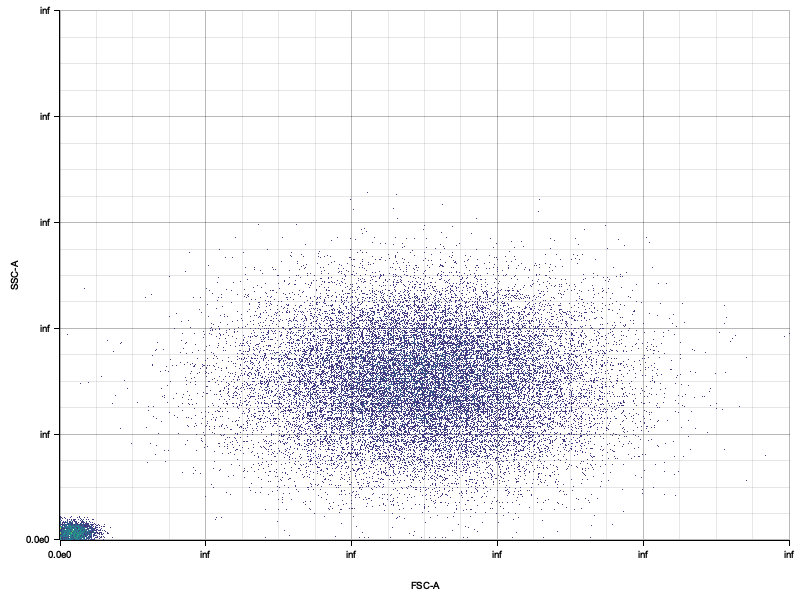
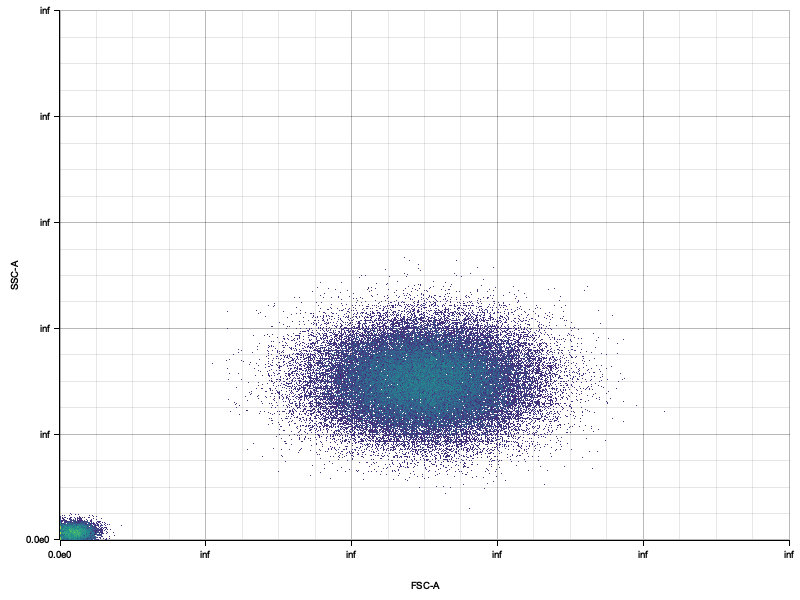
feat(gates): triple event counts and adjust distributions
- Triple total events: 20k -> 60k (most scenarios), 30k -> 90k (with_debris)
- Reduce FSC mean by 35% for single-population and with_doublets (50000 -> 32500)
- Narrow all distributions by ~40% for more concentration (except debris)
- Debris population keeps original wider distribution
- All plots regenerated with new parameters

Changed region(s): [[0.2812, 0.45, 0.7812, 0.84], [0.0625, 0.84, 0.1562, 0.9]]

diff --git a/gates/examples/visualize_synthetic_data.rs b/gates/examples/visualize_synthetic_data.rs
@@ -75,8 +75,10 @@ mod test_helpers {
         let mut rng = rand::thread_rng();
         
         // Use Gaussian distributions for realistic flow cytometry data
-        let fsc_dist = Normal::new(50000.0, 12000.0).unwrap();
-        let ssc_dist = Normal::new(30000.0, 9000.0).unwrap();
+        // Reduced FSC mean by 35%: 50000 * 0.65 = 32500
+        // Narrowed distribution: reduced std dev by ~40% for more concentration
+        let fsc_dist = Normal::new(32500.0, 7200.0).unwrap();
+        let ssc_dist = Normal::new(30000.0, 5400.0).unwrap();
         
         let mut fsc_a = Vec::with_capacity(n_events);
         let mut fsc_h = Vec::with_capacity(n_events);
@@ -114,10 +116,11 @@ mod test_helpers {
         let mut rng = rand::thread_rng();
         
         // Two distinct populations with Gaussian distributions
-        let pop1_fsc_dist = Normal::new(30000.0, 8000.0).unwrap();
-        let pop1_ssc_dist = Normal::new(20000.0, 6000.0).unwrap();
-        let pop2_fsc_dist = Normal::new(70000.0, 10000.0).unwrap();
-        let pop2_ssc_dist = Normal::new(50000.0, 8000.0).unwrap();
+        // Narrowed distributions for more concentration
+        let pop1_fsc_dist = Normal::new(30000.0, 4800.0).unwrap();
+        let pop1_ssc_dist = Normal::new(20000.0, 3600.0).unwrap();
+        let pop2_fsc_dist = Normal::new(70000.0, 6000.0).unwrap();
+        let pop2_ssc_dist = Normal::new(50000.0, 4800.0).unwrap();
         
         let n_pop1 = n_events / 2;
         let n_pop2 = n_events - n_pop1;
@@ -159,8 +162,10 @@ mod test_helpers {
         use rand_distr::{Distribution, Normal};
         let mut rng = rand::thread_rng();
         
-        let singlet_fsc_dist = Normal::new(50000.0, 12000.0).unwrap();
-        let singlet_ssc_dist = Normal::new(30000.0, 9000.0).unwrap();
+        // Reduced FSC mean by 35%: 50000 * 0.65 = 32500
+        // Narrowed distribution for more concentration
+        let singlet_fsc_dist = Normal::new(32500.0, 7200.0).unwrap();
+        let singlet_ssc_dist = Normal::new(30000.0, 5400.0).unwrap();
         
         let n_doublets = n_events / 10;
         let n_singlets = n_events - n_doublets;
@@ -203,9 +208,9 @@ mod test_helpers {
         use rand_distr::{Distribution, Normal};
         let mut rng = rand::thread_rng();
         
-        // Wider distributions for noisy data
-        let fsc_dist = Normal::new(50000.0, 25000.0).unwrap();
-        let ssc_dist = Normal::new(30000.0, 20000.0).unwrap();
+        // Narrowed distributions (still wider than others, but more concentrated)
+        let fsc_dist = Normal::new(50000.0, 15000.0).unwrap();
+        let ssc_dist = Normal::new(30000.0, 12000.0).unwrap();
         
         let mut fsc_a = Vec::with_capacity(n_events);
         let mut fsc_h = Vec::with_capacity(n_events);
@@ -233,8 +238,10 @@ mod test_helpers {
         use rand_distr::{Distribution, Normal};
         let mut rng = rand::thread_rng();
         
-        let main_fsc_dist = Normal::new(50000.0, 12000.0).unwrap();
-        let main_ssc_dist = Normal::new(30000.0, 9000.0).unwrap();
+        // Narrowed main population distribution for more concentration
+        // Debris population keeps original wider distribution
+        let main_fsc_dist = Normal::new(50000.0, 7200.0).unwrap();
+        let main_ssc_dist = Normal::new(30000.0, 5400.0).unwrap();
         let debris_fsc_dist = Normal::new(2000.0, 1500.0).unwrap();
         let debris_ssc_dist = Normal::new(1500.0, 1000.0).unwrap();
         
@@ -291,11 +298,11 @@ fn main() -> Result<(), Box<dyn std::error::Error>> {
         println!("Generating plot for: {}", name);
         
         // Create synthetic FCS file with higher event count for better visualization
-        // Use more events for with_debris to increase main population density
+        // Triple the events: 60k for most scenarios, 90k for with_debris
         let n_events = if matches!(scenario, TestScenario::WithDebris) {
-            30000  // More events for with_debris main population
+            90000  // Triple: 30k -> 90k for with_debris
         } else {
-            20000
+            60000  // Triple: 20k -> 60k for other scenarios
         };
         let fcs = create_synthetic_fcs(n_events, scenario)?;
         
